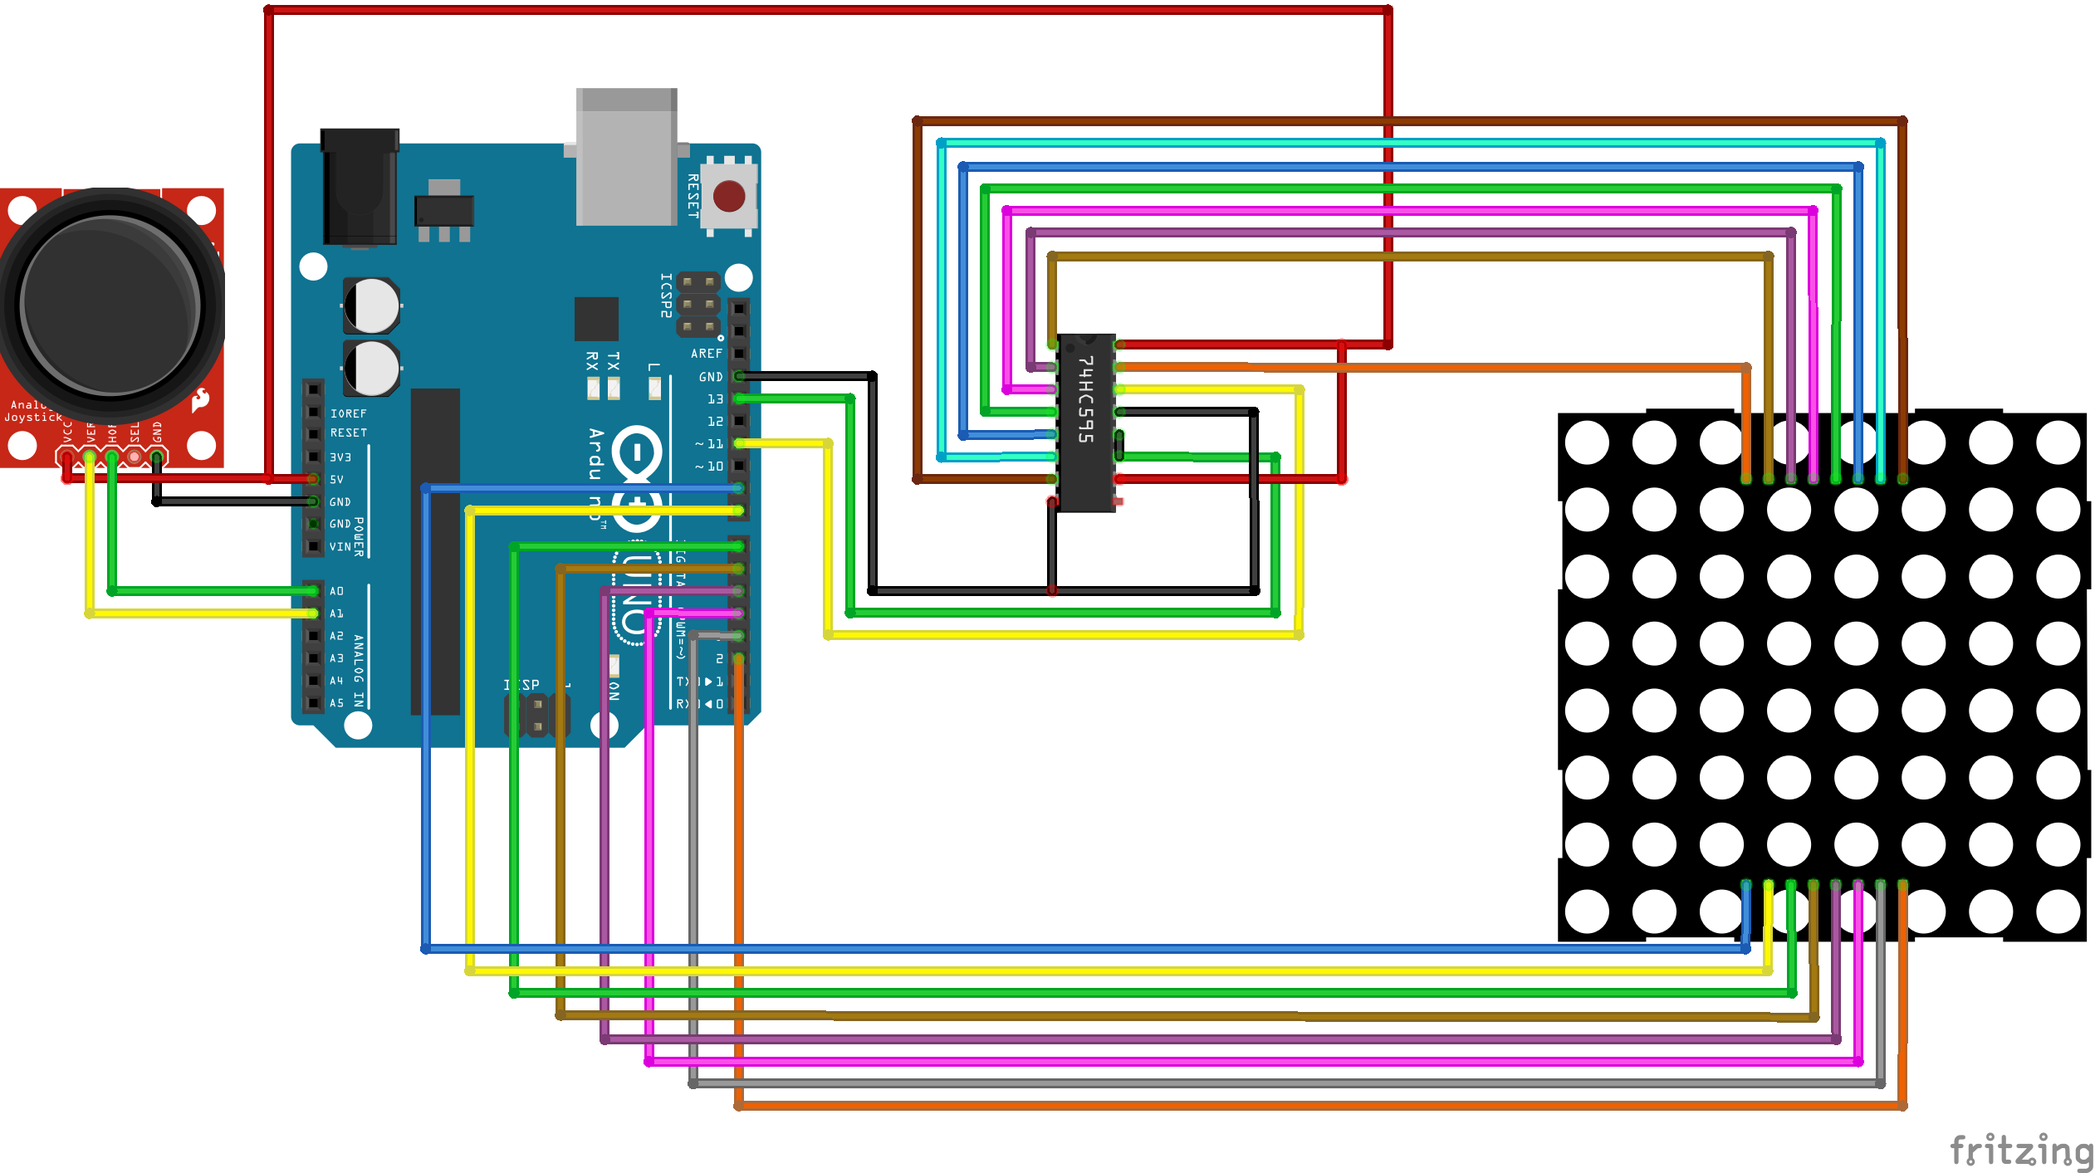
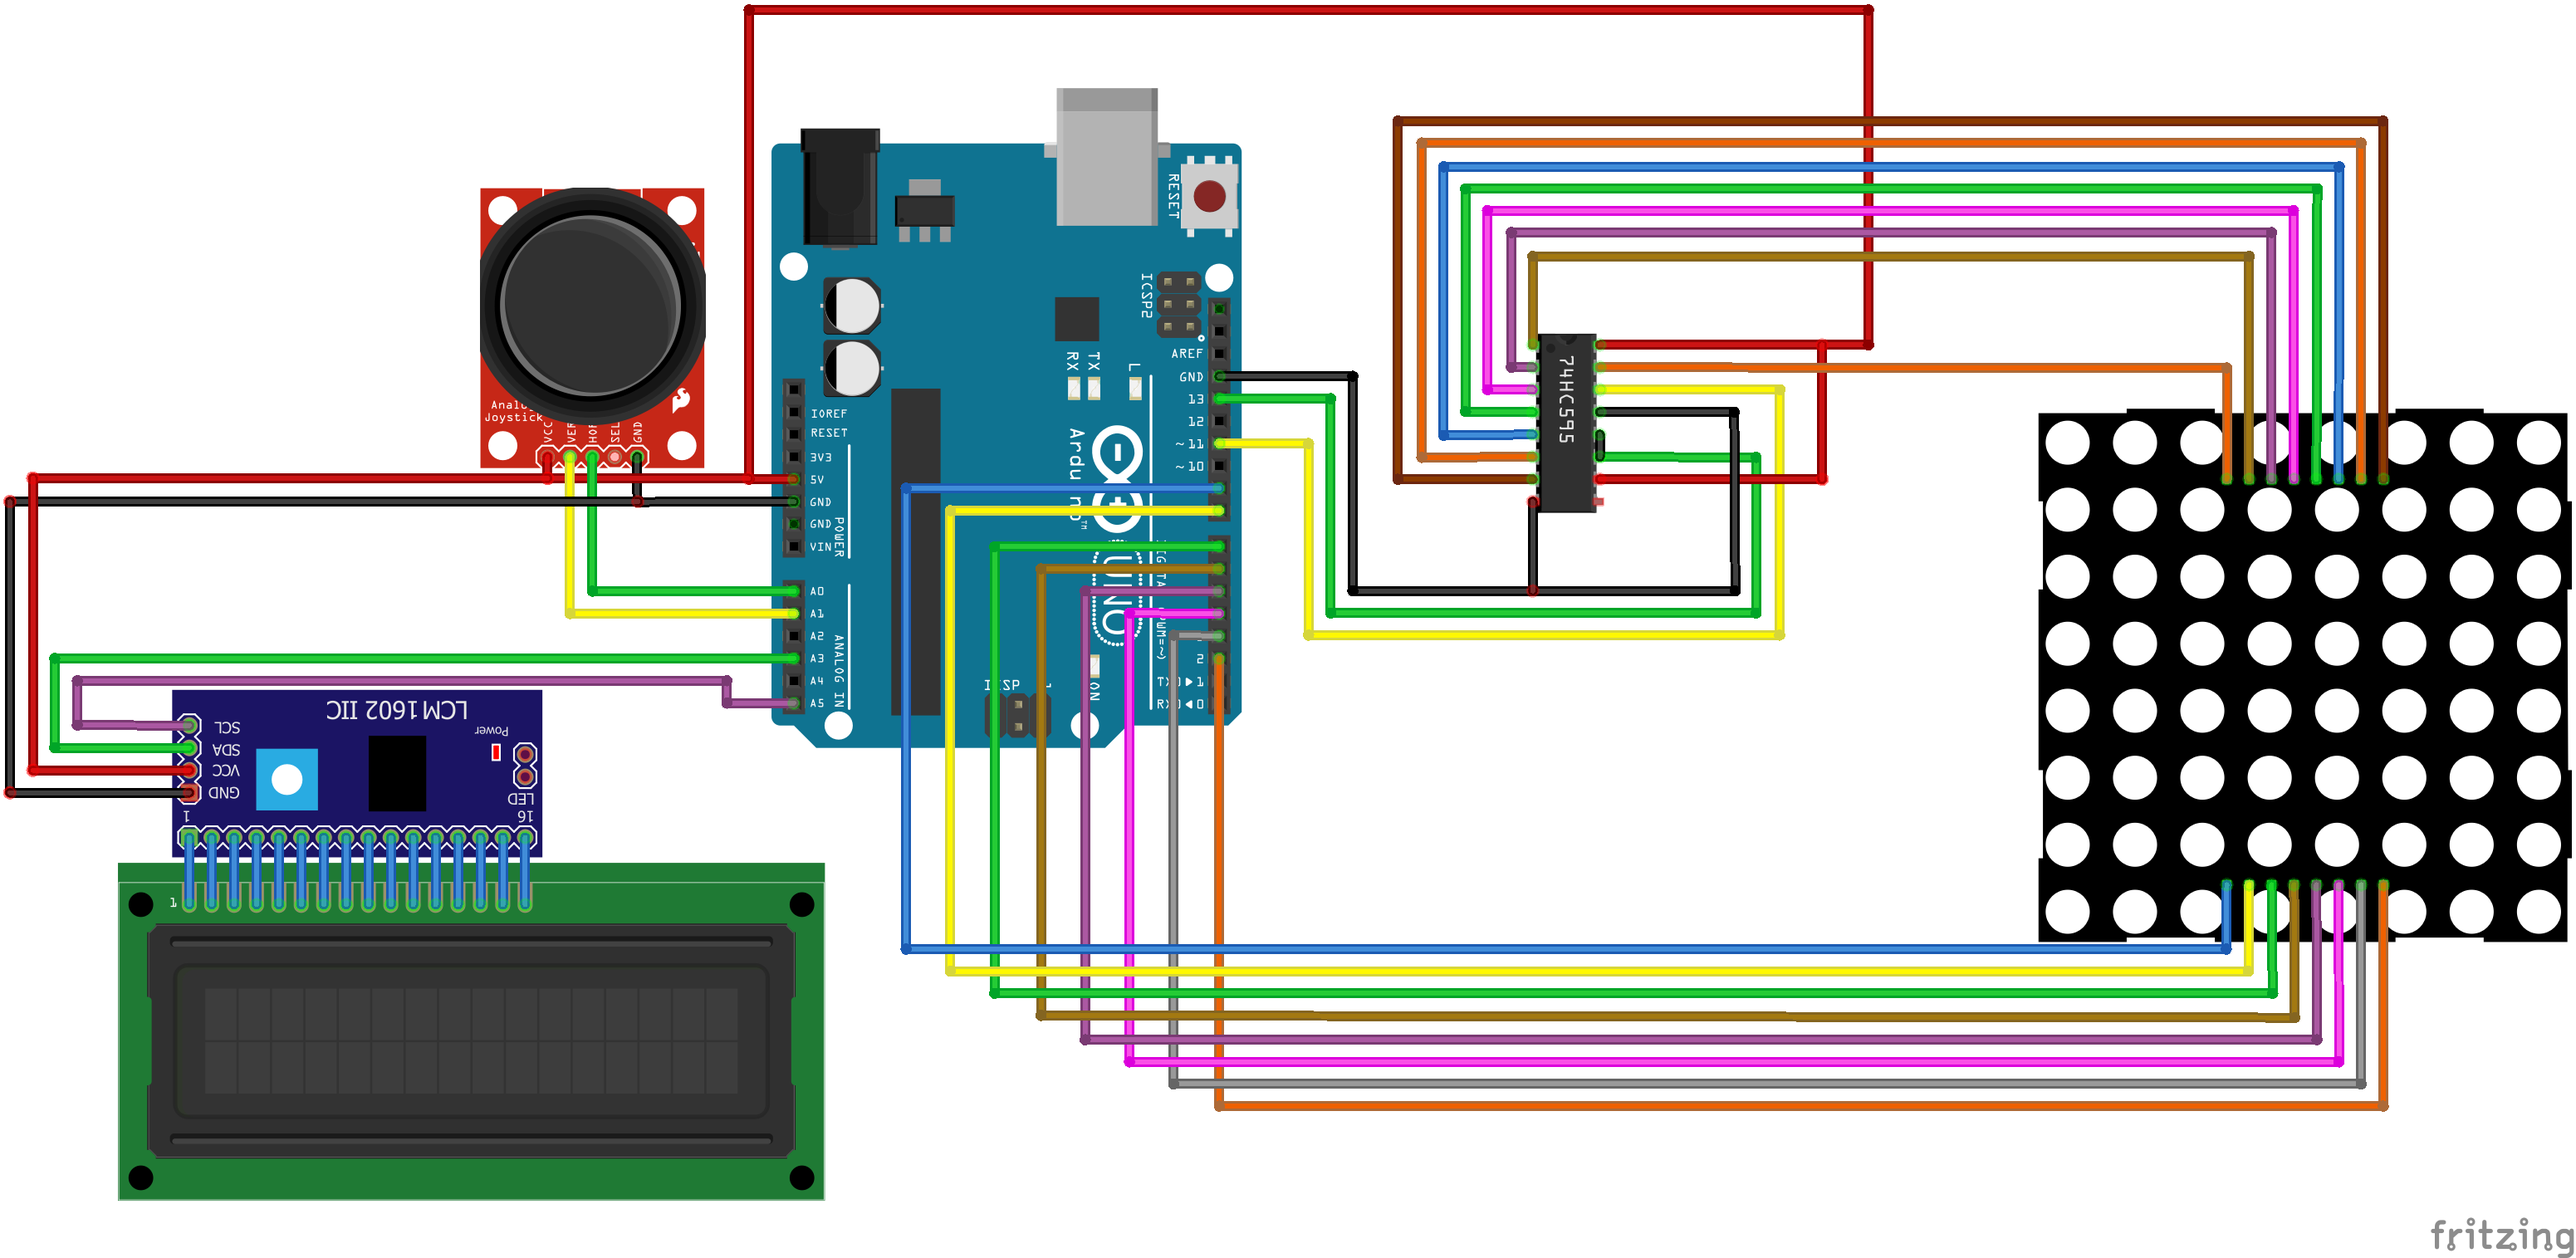
Add LCD Screen Feature

diff --git a/README.md b/README.md
@@ -1,4 +1,13 @@
 # JoyControlMatrix
 An Arduino project that use XY-Control Joystick to control A Red Dot on Dot Matrix Display
 
+Using LiquidCrystal LCD Library
+
+LiquidCrystal LCD : https://github.com/fdebrabander/Arduino-LiquidCrystal-I2C-library
+
+Feature
+    - Move a dot by moving the analog joy stick
+    - Can move upto 8 directions
+    - Show X,Y coordinate on 16 x 2 LCD Screen connect via TWI/I2C
+
 ![ScreenShot](Diagram.png)
